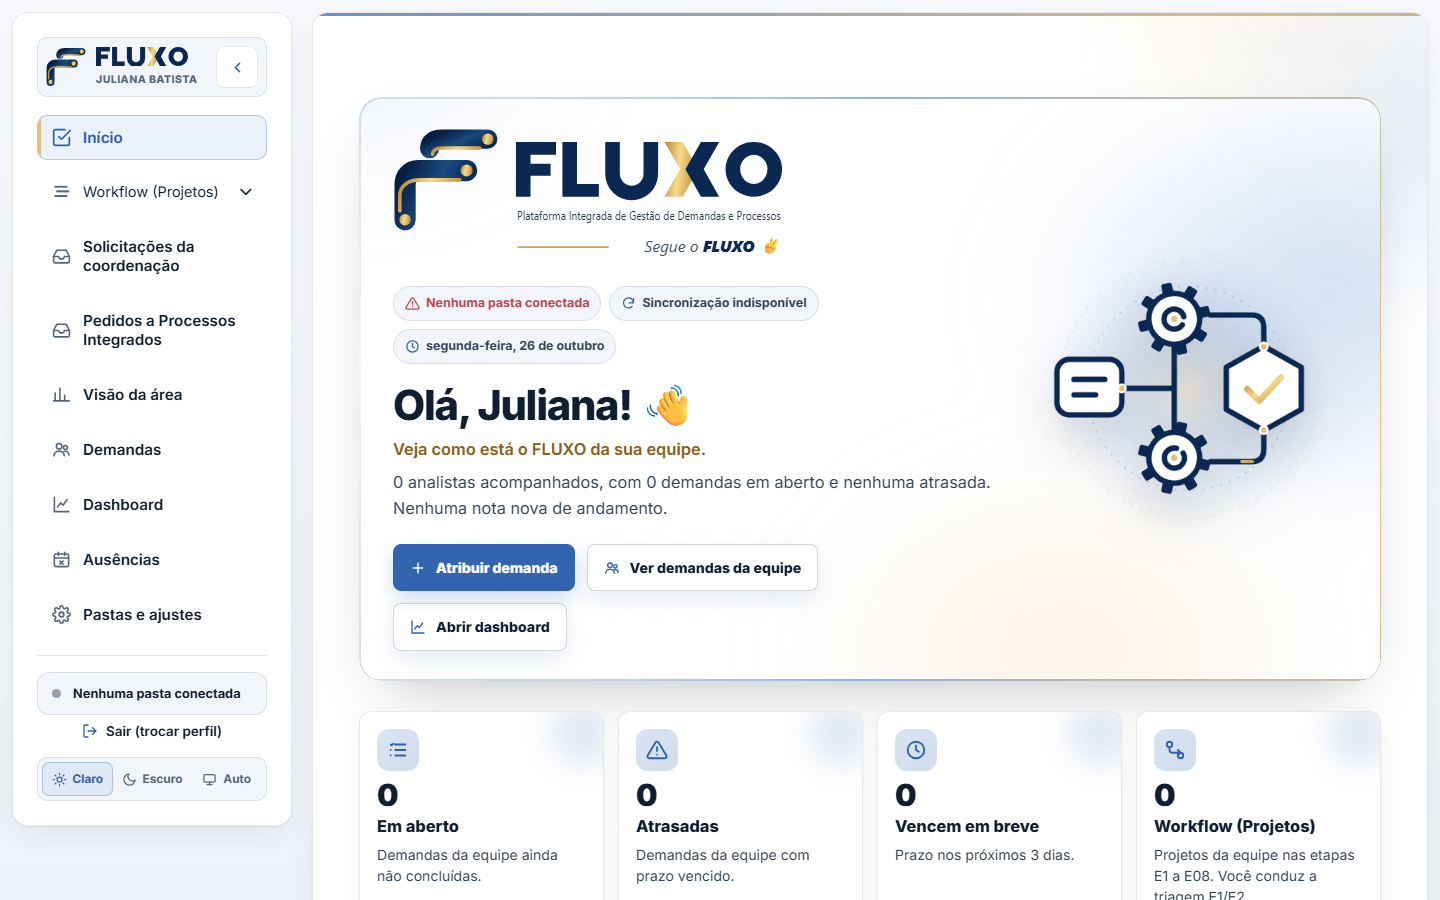
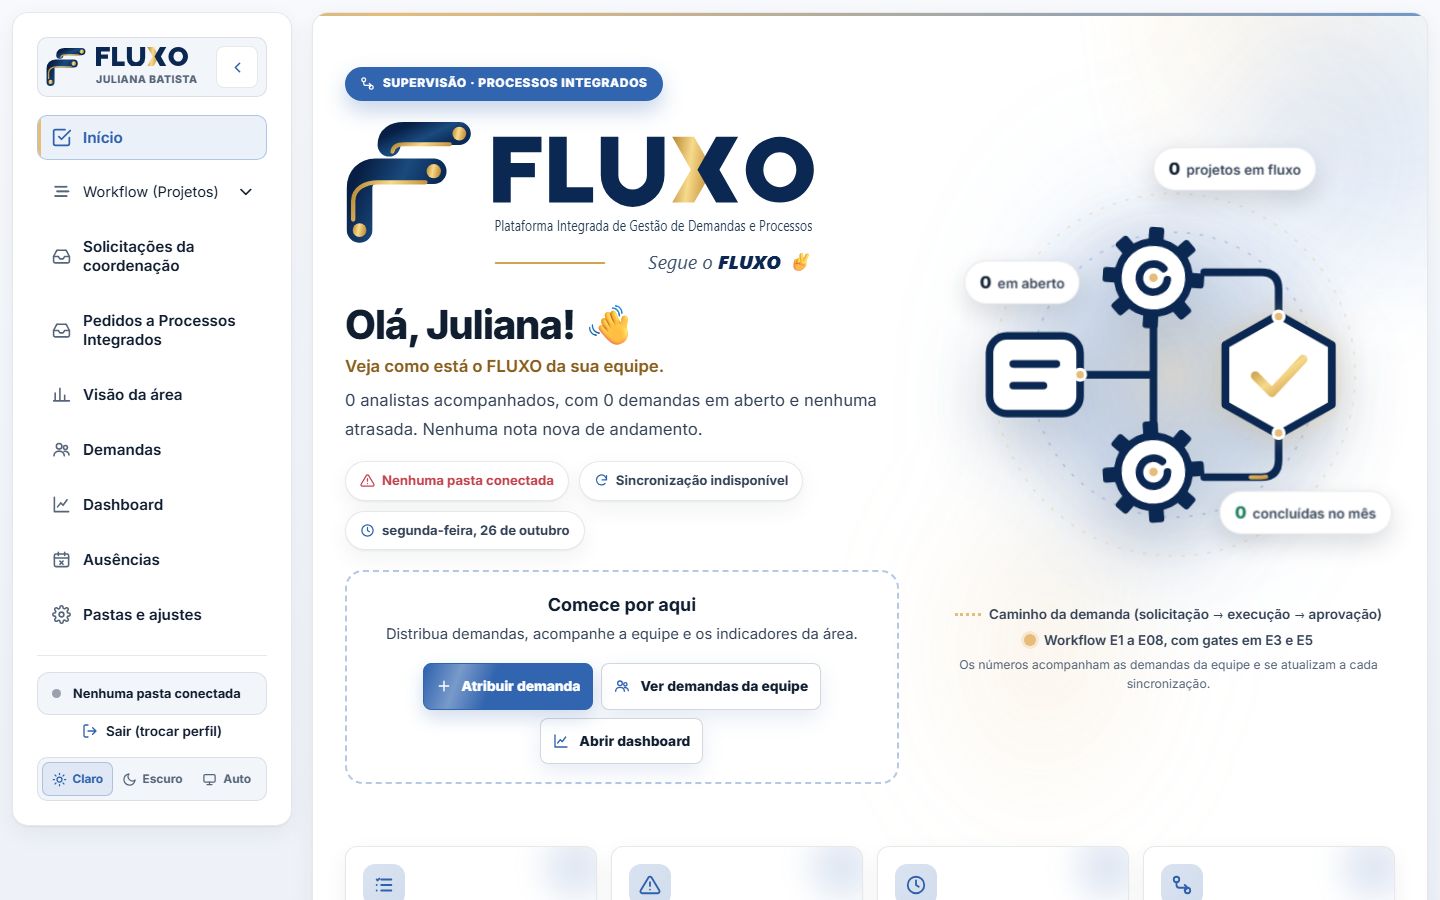
feat: capa do Início no padrão de capa do CSC, de largura total
Ideia principal à esquerda (selo, logo, saudação, estados e área
"Comece por aqui") e ilustração animada à direita, com etiquetas de
números reais e legenda. Responsiva do Full HD ao celular.

diff --git a/02-usuario/app/fluxo.css b/02-usuario/app/fluxo.css
@@ -336,68 +336,79 @@ dialog[open] { animation: fxPop var(--fx-base) var(--fx-ease); }
 .fx-home-marca img { width: min(380px, 82vw); height: auto; }
 @media (max-width: 760px) { .fx-home-marca img { width: min(300px, 86vw); } }
 
-/* ============ 11. Capa do Início: marca à esquerda, ilustração animada à direita ============ */
+/* ============ 11. Capa do Início: ideia principal à esquerda, ilustração à direita (padrão das capas do projeto) ============ */
+/* A capa ocupa o painel inteiro, sem cartão: duas metades responsivas, como as capas das demais ferramentas da área. */
+.welcome-section:has(.fx-capa) { max-width: none; min-height: 0; padding: 0; justify-content: flex-start; }
 .fx-capa {
   --fx-capa-traco: #0B2852; --fx-capa-fundo: #FFFFFF; --fx-mx: 70%; --fx-my: 40%; --fx-rx: 0deg; --fx-ry: 0deg;
-  position: relative; isolation: isolate; display: grid; grid-template-columns: minmax(0, 1.3fr) minmax(240px, .7fr); gap: 28px; align-items: center;
-  width: 100%; margin: 0 0 8px; padding: 30px 34px; border-radius: 22px; text-align: left; overflow: hidden;
-  background: linear-gradient(135deg, rgba(var(--fx-surface-rgb), .92) 0%, rgba(var(--fx-surface-rgb), .78) 100%);
-  box-shadow: 0 1px 0 rgba(255, 255, 255, .6) inset, 0 24px 60px -28px rgba(16, 30, 48, .35);
-  backdrop-filter: blur(6px);
+  position: relative; isolation: isolate; display: grid; grid-template-columns: minmax(0, 1fr) minmax(0, 1fr); gap: clamp(20px, 3vw, 48px); align-items: center;
+  width: 100%; min-height: clamp(500px, calc(100dvh - 200px), 720px); margin: -40px 0 22px; padding: clamp(8px, 1.5vw, 18px) 0; text-align: left;
 }
-:root[data-theme="dark"] .fx-capa { --fx-capa-traco: #E2E8F0; --fx-capa-fundo: #192B41; box-shadow: 0 1px 0 rgba(255, 255, 255, .06) inset, 0 28px 70px -30px rgba(0, 0, 0, .7); }
-@media (prefers-color-scheme: dark) { :root:not([data-theme="light"]) .fx-capa { --fx-capa-traco: #E2E8F0; --fx-capa-fundo: #192B41; box-shadow: 0 1px 0 rgba(255, 255, 255, .06) inset, 0 28px 70px -30px rgba(0, 0, 0, .7); } }
-/* Borda com degradê animado (dourado ↔ azul) */
-.fx-capa::before {
-  content: ''; position: absolute; inset: 0; z-index: -1; padding: 1.5px; border-radius: inherit; pointer-events: none;
-  background: conic-gradient(from var(--fx-angulo, 0deg), rgba(230, 188, 121, .9), rgba(57, 116, 198, .55), rgba(230, 188, 121, .15), rgba(57, 116, 198, .55), rgba(230, 188, 121, .9));
-  -webkit-mask: linear-gradient(#000 0 0) content-box, linear-gradient(#000 0 0); -webkit-mask-composite: xor; mask-composite: exclude;
-  animation: fxBorda 10s linear infinite;
-}
-@property --fx-angulo { syntax: '<angle>'; inherits: false; initial-value: 0deg; }
-@keyframes fxBorda { to { --fx-angulo: 360deg; } }
+:root[data-theme="dark"] .fx-capa { --fx-capa-traco: #E2E8F0; --fx-capa-fundo: #192B41; }
+@media (prefers-color-scheme: dark) { :root:not([data-theme="light"]) .fx-capa { --fx-capa-traco: #E2E8F0; --fx-capa-fundo: #192B41; } }
 /* Luz que acompanha o cursor */
 .fx-capa::after {
-  content: ''; position: absolute; inset: 0; z-index: -1; pointer-events: none; opacity: 0; transition: opacity .35s ease;
-  background: radial-gradient(420px circle at var(--fx-mx) var(--fx-my), rgba(230, 188, 121, .16), transparent 60%);
+  content: ''; position: absolute; inset: -20px; z-index: -1; pointer-events: none; opacity: 0; transition: opacity .35s ease; border-radius: 24px;
+  background: radial-gradient(460px circle at var(--fx-mx) var(--fx-my), rgba(230, 188, 121, .14), transparent 60%);
 }
 .fx-capa.fx-ativa::after { opacity: 1; }
-/* Aurora: brilhos azul e dourado se movendo ao fundo */
-.fx-capa-aurora { position: absolute; inset: -30%; z-index: -2; pointer-events: none; filter: blur(48px); opacity: .55;
-  background: radial-gradient(28% 34% at 78% 40%, rgba(57, 116, 198, .45), transparent 70%), radial-gradient(24% 30% at 62% 78%, rgba(230, 188, 121, .38), transparent 70%), radial-gradient(22% 26% at 18% 12%, rgba(57, 116, 198, .22), transparent 70%);
+/* Aurora atrás da ilustração */
+.fx-capa-aurora { position: absolute; inset: -10% -6% -10% 40%; z-index: -2; pointer-events: none; filter: blur(56px); opacity: .6;
+  background: radial-gradient(34% 40% at 55% 45%, rgba(57, 116, 198, .40), transparent 70%), radial-gradient(26% 30% at 40% 75%, rgba(230, 188, 121, .34), transparent 70%), radial-gradient(22% 26% at 80% 20%, rgba(57, 116, 198, .22), transparent 70%);
   animation: fxAurora 18s ease-in-out infinite alternate; }
-@keyframes fxAurora { 0% { transform: translate3d(0, 0, 0) rotate(0deg); } 50% { transform: translate3d(-4%, 3%, 0) rotate(8deg); } 100% { transform: translate3d(3%, -3%, 0) rotate(-6deg); } }
+@keyframes fxAurora { 0% { transform: translate3d(0, 0, 0) rotate(0deg); } 50% { transform: translate3d(-3%, 3%, 0) rotate(6deg); } 100% { transform: translate3d(3%, -2%, 0) rotate(-5deg); } }
 
-/* Conteúdo (coluna esquerda) */
-.fx-capa-conteudo { min-width: 0; }
-.fx-capa-conteudo .fx-home-marca { margin: 0 0 18px; }
-.fx-capa-conteudo .fx-home-marca img { width: min(390px, 100%); }
-.fx-capa-conteudo .status-badges { justify-content: flex-start; gap: 8px; margin: 0 0 18px; }
-.fx-capa-conteudo .status-pill { padding: 7px 11px; font-size: .78rem; gap: 6px; backdrop-filter: blur(4px); }
-.fx-capa-conteudo h2 { margin: 0 0 6px; text-align: left; font-size: clamp(1.9rem, 3.2vw, 2.6rem); letter-spacing: -.03em; }
-.fx-capa-conteudo p { margin: 0; max-width: 60ch; color: var(--fx-ink-2); font-size: 1.02rem; line-height: 1.65; }
+/* ---- Coluna da ideia principal ---- */
+.fx-capa-conteudo { min-width: 0; display: flex; flex-direction: column; align-items: flex-start; }
+.fx-capa-selo { display: inline-flex; align-items: center; gap: 8px; margin-bottom: 18px; padding: 8px 15px; border-radius: 999px; background: #3265AF; color: #fff; font-size: .74rem; font-weight: 800; letter-spacing: .06em; text-transform: uppercase; box-shadow: 0 10px 22px rgba(50, 101, 175, .28); }
+.fx-capa-selo svg { width: 15px; height: 15px; }
+.fx-capa-conteudo .fx-home-marca { width: min(470px, 100%); margin: 0 0 14px; }
+.fx-capa-conteudo .fx-home-marca img { width: 100%; }
+.fx-capa-conteudo h2 { margin: 0 0 4px; text-align: left; font-size: clamp(1.8rem, 3vw, 2.5rem); letter-spacing: -.03em; }
+.fx-capa-conteudo p { margin: 0; max-width: 58ch; color: var(--fx-ink-2); font-size: 1.04rem; line-height: 1.7; }
 .fx-capa-conteudo p.fx-kicker { margin: 0 0 6px; color: var(--fx-brand-ink); font-weight: 650; }
-.fx-capa-conteudo .primary-actions { justify-content: flex-start; margin: 22px 0 0; }
+.fx-capa-conteudo .status-badges { justify-content: flex-start; gap: 10px; margin: 18px 0 20px; }
+.fx-capa-conteudo .status-pill { padding: 9px 14px; font-size: .82rem; gap: 7px; background: var(--fx-surface); box-shadow: var(--fx-shadow); }
+/* Área tracejada de ações (como a área de envio das demais capas) */
+.fx-capa-acoes { width: 100%; display: flex; flex-direction: column; align-items: center; gap: 4px; padding: 22px 20px 20px; border: 2px dashed rgba(var(--fx-accent-rgb), .35); border-radius: 18px; background: rgba(var(--fx-surface-rgb), .6); text-align: center; transition: border-color .2s ease, background .2s ease; }
+.fx-capa-acoes:hover { border-color: rgba(var(--fx-accent-rgb), .6); background: rgba(var(--fx-accent-rgb), .05); }
+.fx-capa-acoes strong { font-size: 1.12rem; color: var(--fx-ink); }
+.fx-capa-acoes > span { color: var(--fx-ink-2); font-size: .92rem; }
+.fx-capa-acoes .primary-actions { justify-content: center; margin: 14px 0 0; }
 .fx-capa-conteudo .primary-actions .cta { position: relative; overflow: hidden; }
 .fx-capa-conteudo .primary-actions .cta::after { content: ''; position: absolute; inset: 0; background: linear-gradient(110deg, transparent 30%, rgba(255, 255, 255, .35) 50%, transparent 70%); transform: translateX(-120%); animation: fxBrilhoBotao 5s ease-in-out 1.6s infinite; pointer-events: none; }
 @keyframes fxBrilhoBotao { 0%, 70% { transform: translateX(-120%); } 85%, 100% { transform: translateX(120%); } }
-.welcome-section { max-width: 1120px; }
 
-/* Entrada em cascata (apenas na primeira exibição) */
+/* Entrada em cascata (apenas na primeira exibição; o estado normal é sempre visível) */
 .fx-entrada .fx-capa-conteudo > * { animation: fxSobe .6s var(--fx-ease) backwards; }
-.fx-entrada .fx-capa-conteudo > :nth-child(2) { animation-delay: .08s; }
-.fx-entrada .fx-capa-conteudo > :nth-child(3) { animation-delay: .16s; }
-.fx-entrada .fx-capa-conteudo > :nth-child(4) { animation-delay: .22s; }
-.fx-entrada .fx-capa-conteudo > :nth-child(5) { animation-delay: .28s; }
-.fx-entrada .fx-capa-conteudo > :nth-child(6) { animation-delay: .34s; }
-.fx-entrada .fx-capa-arte { animation: fxSurge .9s var(--fx-ease) .2s backwards; }
-@keyframes fxSobe { from { opacity: 0; transform: translateY(14px); } to { opacity: 1; transform: none; } }
-@keyframes fxSurge { from { opacity: 0; transform: scale(.92) translateX(16px); } to { opacity: 1; transform: none; } }
+.fx-entrada .fx-capa-conteudo > :nth-child(2) { animation-delay: .06s; }
+.fx-entrada .fx-capa-conteudo > :nth-child(3) { animation-delay: .12s; }
+.fx-entrada .fx-capa-conteudo > :nth-child(4) { animation-delay: .18s; }
+.fx-entrada .fx-capa-conteudo > :nth-child(5) { animation-delay: .24s; }
+.fx-entrada .fx-capa-conteudo > :nth-child(6) { animation-delay: .30s; }
+.fx-entrada .fx-capa-conteudo > :nth-child(7) { animation-delay: .36s; }
+.fx-entrada .fx-capa-arte { animation: fxSurge .9s var(--fx-ease) .15s backwards; }
+@keyframes fxSobe { from { opacity: 0; transform: translateY(14px); } }
+@keyframes fxSurge { from { opacity: 0; transform: scale(.94) translateX(18px); } }
 
-/* Ilustração (coluna direita) com inclinação 3D */
-.fx-capa-arte { position: relative; perspective: 900px; }
-.fx-capa-palco { transform: rotateX(var(--fx-rx)) rotateY(var(--fx-ry)); transform-style: preserve-3d; transition: transform .25s ease-out; will-change: transform; }
-.fx-capa-svg { display: block; width: 100%; max-width: 340px; height: auto; margin: 0 auto; overflow: visible; filter: drop-shadow(0 18px 28px rgba(16, 30, 48, .18)); }
+/* ---- Coluna da ilustração ---- */
+.fx-capa-arte { position: relative; min-width: 0; height: 100%; display: flex; flex-direction: column; justify-content: center; perspective: 1000px; }
+.fx-capa-palco { position: relative; width: min(100%, 600px); margin: 0 auto; transform: rotateX(var(--fx-rx)) rotateY(var(--fx-ry)); transform-style: preserve-3d; transition: transform .25s ease-out; will-change: transform; }
+.fx-capa-svg { display: block; width: 100%; height: auto; overflow: visible; filter: drop-shadow(0 22px 34px rgba(16, 30, 48, .20)); }
+/* Etiquetas flutuantes com dados reais (como as etiquetas do mapa nas demais capas) */
+.fx-capa-chip { position: absolute; transform: translate(-50%, -50%) translateZ(40px); display: inline-flex; align-items: baseline; gap: 6px; padding: 8px 14px; border-radius: 999px; background: var(--fx-surface); color: var(--fx-ink-2); font-size: .82rem; font-weight: 600; white-space: nowrap; box-shadow: 0 10px 26px rgba(16, 30, 48, .16); border: 1px solid var(--fx-line); animation: fxChip 5s ease-in-out infinite; }
+.fx-capa-chip b { font-family: var(--fx-font-num); font-size: 1rem; font-weight: 800; color: var(--fx-ink); }
+.fx-chip-doc { left: 19%; top: 30%; }
+.fx-chip-gear { left: 64%; top: 6%; animation-delay: -1.6s; }
+.fx-chip-ok { left: 79%; top: 82%; animation-delay: -3.2s; }
+.fx-chip-ok b { color: var(--fx-success); }
+@keyframes fxChip { 0%, 100% { margin-top: 0; } 50% { margin-top: -6px; } }
+/* Legenda no rodapé da ilustração */
+.fx-capa-legenda { display: flex; flex-wrap: wrap; justify-content: center; gap: 6px 22px; margin-top: 14px; color: var(--fx-ink-2); font-size: .84rem; font-weight: 600; text-align: center; }
+.fx-capa-legenda span { display: inline-flex; align-items: center; gap: 8px; }
+.fx-capa-legenda small { flex-basis: 100%; color: var(--fx-ink-3); font-size: .76rem; font-weight: 400; }
+.fx-leg-fluxo { width: 26px; height: 0; border-top: 3px dotted #E6BC79; }
+.fx-leg-no { width: 12px; height: 12px; border-radius: 50%; background: #E6BC79; box-shadow: 0 0 0 3px rgba(230, 188, 121, .25); }
 
 /* Traços da ilustração (seguem o tema) */
 .fx-capa-linhas path, .fx-capa-doc rect, .fx-capa-doc path, .fx-capa-aro, .fx-capa-seta, .fx-capa-hex path:first-child { fill: none; stroke: var(--fx-capa-traco); stroke-width: 7; stroke-linecap: round; stroke-linejoin: round; }
@@ -428,31 +439,36 @@ dialog[open] { animation: fxPop var(--fx-base) var(--fx-ease); }
 @keyframes fxRespira { 0%, 100% { opacity: .75; transform: scale(.97); } 50% { opacity: 1; transform: scale(1.03); } }
 @keyframes fxCheck { from { stroke-dashoffset: 64; } }
 
-/* Responsividade */
-@media (min-width: 1101px) and (max-width: 1360px) {
-  .fx-capa { grid-template-columns: minmax(0, 1.42fr) minmax(200px, .58fr); gap: 18px; padding: 26px 24px; }
-  .fx-capa-svg { max-width: 270px; }
-  .fx-capa-conteudo .primary-actions .cta, .fx-capa-conteudo .primary-actions .ghost-btn { padding-left: 14px; padding-right: 14px; }
+/* ---- Responsividade ---- */
+@media (max-width: 1599px) {
+  .fx-capa { grid-template-columns: minmax(0, 1.1fr) minmax(0, .9fr); }
+  .fx-capa-acoes { padding: 20px 14px 18px; }
+  .fx-capa-acoes .primary-actions { gap: 8px; }
+  .fx-capa-acoes .primary-actions .cta, .fx-capa-acoes .primary-actions .ghost-btn { padding-left: 12px; padding-right: 12px; font-size: .86rem; }
+}
+@media (max-width: 1360px) {
+  .fx-capa { gap: 22px; }
+  .fx-capa-conteudo .fx-home-marca { width: min(420px, 100%); }
+  .fx-capa-chip { font-size: .76rem; padding: 7px 11px; }
 }
 @media (max-width: 1100px) {
-  .fx-capa { grid-template-columns: 1fr; gap: 6px; padding: 24px 20px; text-align: center; }
-  .fx-capa-conteudo .fx-home-marca img { margin: 0 auto; }
-  .fx-capa-conteudo .status-badges, .fx-capa-conteudo .primary-actions { justify-content: center; }
+  .fx-capa { grid-template-columns: 1fr !important; min-height: 0; margin-top: -30px; gap: 28px; text-align: center; }
+  .fx-capa-conteudo { align-items: center; }
   .fx-capa-conteudo h2 { text-align: center; }
   .fx-capa-conteudo p { margin-left: auto; margin-right: auto; }
-  .fx-capa-arte { order: 2; margin-top: 8px; }
-  .fx-capa-svg { max-width: 260px; }
+  .fx-capa-conteudo .status-badges { justify-content: center; }
+  .fx-capa-aurora { inset: 30% -10% -10% -10%; }
+  .fx-capa-palco { width: min(100%, 460px); }
 }
-@media (max-width: 480px) {
-  .fx-capa { padding: 20px 14px; border-radius: 18px; }
-  .fx-capa-svg { max-width: 200px; }
-  .fx-capa-conteudo .fx-home-marca img { width: min(300px, 100%); }
+@media (max-width: 560px) {
+  .fx-capa { margin-top: -20px; }
+  .fx-capa-conteudo .fx-home-marca { width: min(300px, 100%); }
+  .fx-capa-acoes { padding: 18px 14px; }
+  .fx-capa-chip { font-size: .7rem; padding: 6px 9px; }
+  .fx-chip-gear { left: 60%; }
+  .fx-capa-legenda { font-size: .78rem; }
 }
 @media (prefers-reduced-motion: reduce) {
   .fx-capa-fluxo, .fx-capa-aurora, .fx-capa-conteudo .primary-actions .cta::after { display: none; }
   .fx-capa-palco { transform: none; }
-}
-@media (min-width: 1600px) {
-  .fx-capa { grid-template-columns: minmax(0, 1.12fr) minmax(280px, .88fr); }
-  .fx-capa-svg { max-width: 400px; }
 }

diff --git a/02-usuario/app/pgd.js b/02-usuario/app/pgd.js
@@ -4484,18 +4484,36 @@ function renderHome() {
     const ss = substSups();
     if (ss.length) extra += `<p class="banner info"><span>${I.away} Você está respondendo por ${ss.map(s => `<b>${esc(s.supervisor)}</b> (até ${fmtDate(ausOf(s.id).fim)})`).join(', ')}. Designe, altere prazos, escreva notas e responda às solicitações na tela Substituição.</span><button class="btn sm primary" data-act="go" data-view="substituicao">Abrir substituição</button></p>`;
   }
+  const wfAbertos = wfProjetos().filter(p => wfTracker(p.t).atual).length;
   $('#homeArea').innerHTML = `
     <section class="fx-capa${fxCapaEntrada()}" aria-label="Apresentação">
       <span class="fx-capa-aurora" aria-hidden="true"></span>
       <div class="fx-capa-conteudo">
+        <span class="fx-capa-selo">${I.flow}${isSup ? 'Supervisão · Processos Integrados' : 'Processos Integrados · CSC'}</span>
         ${FX_MARCA_INICIO}
-        <div class="status-badges">${pills.join('')}</div>
         <h2>Olá${who ? `, ${esc(who)}` : ''}! 👋</h2>
         <p class="fx-kicker">${isSup ? 'Veja como está o FLUXO da sua equipe.' : 'Veja como está o FLUXO das suas demandas.'}</p>
         <p class="fx-capa-lead">${esc(lead)}</p>
-        <div class="primary-actions">${actions}</div>
+        <div class="status-badges">${pills.join('')}</div>
+        <div class="fx-capa-acoes">
+          <strong>Comece por aqui</strong>
+          <span>${isSup ? 'Distribua demandas, acompanhe a equipe e os indicadores da área.' : 'Registre uma demanda, acompanhe suas tarefas e os indicadores.'}</span>
+          <div class="primary-actions">${actions}</div>
+        </div>
       </div>
-      <div class="fx-capa-arte" aria-hidden="true"><div class="fx-capa-palco">${FX_CAPA_ARTE}</div></div>
+      <div class="fx-capa-arte" aria-hidden="true">
+        <div class="fx-capa-palco">
+          ${FX_CAPA_ARTE}
+          <span class="fx-capa-chip fx-chip-doc"><b>${open.length}</b> ${open.length === 1 ? 'em aberto' : 'em aberto'}</span>
+          <span class="fx-capa-chip fx-chip-gear"><b>${wfAbertos}</b> ${wfAbertos === 1 ? 'projeto em fluxo' : 'projetos em fluxo'}</span>
+          <span class="fx-capa-chip fx-chip-ok"><b>${doneMonth}</b> ${doneMonth === 1 ? 'concluída no mês' : 'concluídas no mês'}</span>
+        </div>
+        <div class="fx-capa-legenda">
+          <span><i class="fx-leg-fluxo"></i>Caminho da demanda (solicitação → execução → aprovação)</span>
+          <span><i class="fx-leg-no"></i>Workflow E1 a E08, com gates em E3 e E5</span>
+          <small>Os números acompanham ${isSup ? 'as demandas da equipe' : 'as suas demandas'} e se atualizam a cada sincronização.</small>
+        </div>
+      </div>
     </section>
     ${extra ? `<div class="home-extra">${extra}</div>` : ''}
     <div class="feature-grid">${cards}</div>

diff --git a/02-usuario/app/marca/README.md b/02-usuario/app/marca/README.md
@@ -42,7 +42,7 @@ A palavra FLUXO é desenhada como vetor (não é texto em fonte). Por isso apare
 | --- | --- |
 | Menu lateral expandido | Símbolo + palavra FLUXO + nome do usuário (dinâmico), no cartão do cabeçalho |
 | Menu lateral recolhido | Só o símbolo |
-| Início (analista e supervisão) | Capa em duas colunas: à esquerda, a logo completa com descrição e slogan, seguida dos estados da pasta, da saudação e das ações; à direita, a ilustração animada do fluxo. Os indicadores vêm abaixo |
+| Início (analista e supervisão) | Capa de largura total: à esquerda, selo, logo completa com descrição e slogan, saudação, estados da pasta e a área "Comece por aqui"; à direita, a ilustração animada com etiquetas de números e legenda. Os cartões de atalho vêm abaixo |
 | Login: área institucional | Logo completa (versão escura) no topo esquerdo |
 | Login: cartão de acesso | Símbolo + FLUXO, acima de "Acesse o FLUXO" |
 | Telas internas (Tarefas, Workflow, Indicadores, Validação, Ausência, Pasta e backup, Dashboard) | Marca compacta do menu lateral; a logo completa não se repete |
@@ -55,7 +55,7 @@ Cada local carrega a versão clara e a escura do ativo. A regra `.fx-claro` / `.
 
 ## Ilustração da capa do Início
 
-A capa tem duas colunas: **à esquerda**, a marca, os estados da pasta, a saudação e as ações; **à direita**, a ilustração. No HTML, o conteúdo vem primeiro, então leitores de tela e o celular leem a marca e a saudação antes da ilustração, que é decorativa (`aria-hidden`).
+A capa ocupa toda a largura do painel e segue o padrão de capa do CSC (ideia principal à esquerda, ilustração à direita). **À esquerda**: selo ("Processos Integrados · CSC" ou "Supervisão · Processos Integrados"), logo completa como título, saudação, resumo, estados da pasta e a área tracejada "Comece por aqui" com as ações. **À direita**: a ilustração com três etiquetas de números reais (em aberto, projetos em fluxo, concluídas no mês) e uma legenda abaixo. No HTML, o conteúdo vem primeiro, então leitores de tela e o celular leem a marca e a saudação antes da ilustração, que é decorativa (`aria-hidden`).
 
 A ilustração é um vetor desenhado nas cores da marca a partir do ícone de processo (documento → duas engrenagens → hexágono de aprovação). Fica embutida em `../pgd.js` (`FX_CAPA_ARTE`), com o estilo e os efeitos em `../fluxo.css` (seção 11).
 
@@ -68,6 +68,7 @@ A ilustração é um vetor desenhado nas cores da marca a partir do ícone de pr
 | Luz do cursor | Brilho suave que acompanha o mouse sobre a capa |
 | Inclinação 3D | A ilustração inclina em perspectiva conforme a posição do mouse |
 | Entrada em cascata | Marca, estados, saudação e ações sobem em sequência. Só na primeira exibição, para não repetir a cada sincronização |
+| Etiquetas flutuantes | Os números da ilustração flutuam suavemente, em ritmos diferentes |
 | Ilustração viva | Engrenagens girando em sentidos opostos (mais rápidas com o mouse), pulsos dourados nas conexões, documento flutuando, hexágono pulsando, check se desenhando, halo e órbitas |
 | Botão principal | Um reflexo de luz percorre "Nova demanda" de tempos em tempos |
 
@@ -81,11 +82,11 @@ A ilustração é um vetor desenhado nas cores da marca a partir do ícone de pr
 
 | Largura | Layout |
 | --- | --- |
-| ≥ 1600 px | Duas colunas, ilustração até 400 px |
-| 1361–1599 px | Duas colunas (conteúdo 1,3 : ilustração 0,7) |
-| 1101–1360 px (notebook) | Duas colunas compactas, ilustração até 270 px |
-| ≤ 1100 px (tablet) | Uma coluna centralizada, com a ilustração abaixo do conteúdo (até 260 px) |
-| ≤ 480 px (celular) | Ilustração até 200 px e botões na largura total, para facilitar o toque |
+| ≥ 1600 px | Duas colunas iguais; altura da capa acompanha a tela (500–720 px) |
+| 1361–1599 px | Duas colunas (conteúdo 1,1 : ilustração 0,9), botões compactos para caberem numa linha |
+| 1101–1360 px (notebook) | Duas colunas, logo até 420 px |
+| ≤ 1100 px (tablet) | Uma coluna centralizada, com a ilustração e a legenda abaixo do conteúdo (até 460 px) |
+| ≤ 560 px (celular) | Logo até 300 px, etiquetas menores e botões na largura total, para facilitar o toque |
 
 ## Diferenças conhecidas em relação à prancha
 

diff --git a/README.md b/README.md
@@ -189,7 +189,7 @@ Os dois painéis usam o mesmo motor (`pgd.js`). O `mode` do preset decide o menu
 
 | Item | Para que serve |
 | --- | --- |
-| **Início** | Capa moderna com a logo FLUXO, estados, saudação e ações à esquerda e a ilustração animada do fluxo à direita (borda viva, aurora, luz do cursor e inclinação 3D). Em seguida, boas-vindas com cartões de atalho (em aberto, atrasadas, vencem em breve, Workflow). |
+| **Início** | Capa de largura total em duas colunas. À esquerda, a ideia principal: selo, logo FLUXO com slogan, saudação, resumo, estados da pasta e a área tracejada "Comece por aqui" com as ações. À direita, a ilustração animada do fluxo com etiquetas de números reais (em aberto, projetos em fluxo, concluídas no mês) e legenda. Efeitos: borda viva, aurora, luz do cursor e inclinação 3D. No tablet e no celular vira uma coluna, com a ilustração abaixo. Em seguida, cartões de atalho (em aberto, atrasadas, vencem em breve, Workflow). |
 | **Indicadores** | Cartões por situação, itens que pedem atenção, régua de prazos, tabela por assunto e ritmo da semana. |
 | **Tarefas** | Lista e quadro das suas demandas: filtros, nova demanda, notas de andamento, anexos, recorrência, relatório em PDF/Excel. |
 | **Workflow (Projetos)** (grupo) | O título só abre e fecha a lista, com animação. Dentro ficam **Workflow** (tracker) e **E3 — Levantamento**, **E4 — Execução**, **E5 — Validação**, **E6 — Ajustes**, **E7 — Entrega**, **E08 — Hypercare** (seção 6). A lista começa fechada e já vem aberta quando a tela atual é do Workflow. |
